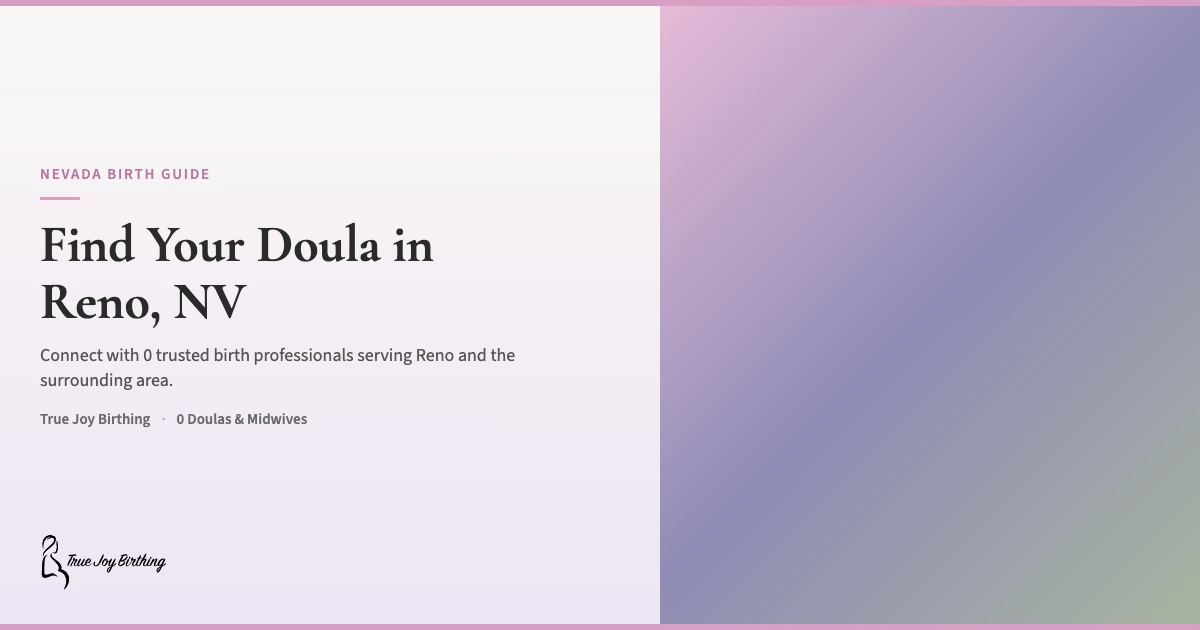
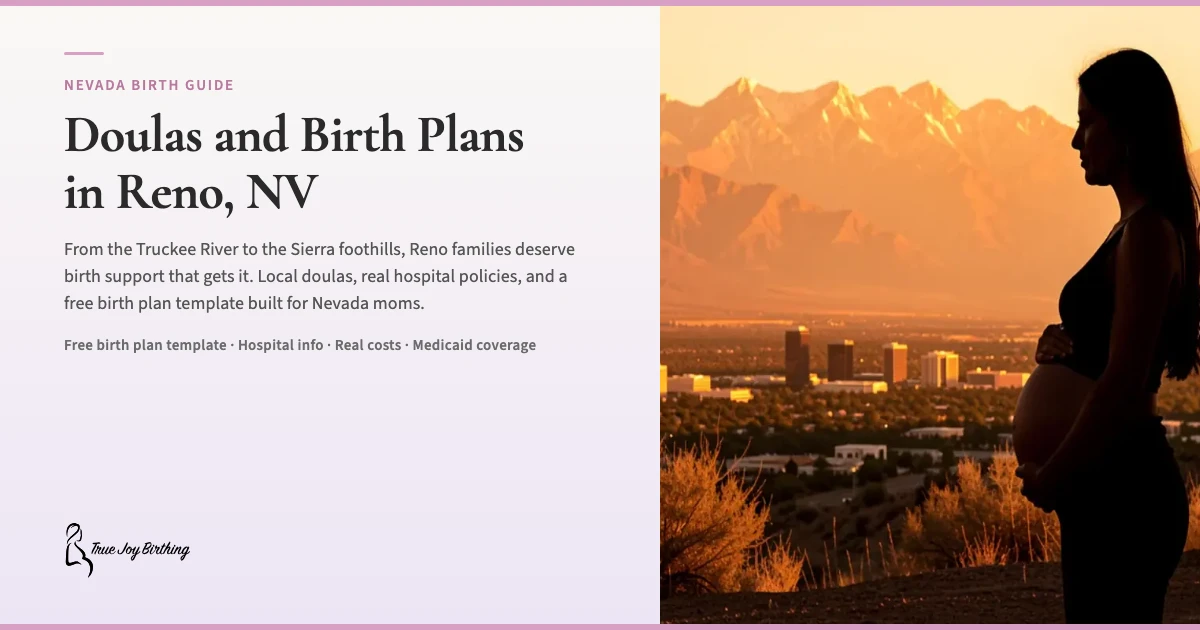
deploy: 2026-07-07 13:28 — feat: rochester-ny video embed + 4 hospitals + 1 birth center [preflight: pass]

diff --git a/src/data/cities.ts b/src/data/cities.ts
@@ -1683,34 +1683,55 @@ export const cities: Record<string, CityData> = {
     costLow: 800,
     costHigh: 1800,
     shelbiServesHere: false,
-    heroImage: "/images/new-york-ny-birth-doula-skyline.webp",
+    heroImage: "/images/providence-ri-birth-doula-hero-pvd-v2.webp",
+    ogImage: "https://truejoybirthing.com/images/og-city-providence-ri-v2.webp" ,
     localDoulas: [
-      { name: "Doula Access Collaborative" , credential: "Birth Doula" , practice: "Doula Access Collaborative" , url: "https://www.providence.org/locations/or/doula-access-collaborative" , photo: "" , description: "Providence contracts with birth doulas to support families with Medicaid insurance. The program aims to advance birth equity for childbearing families.", costRange: "Contact for pricing", acceptingClients: true, services: ["Birth Doula" , "Postpartum Doula"], serviceArea: ["Providence, RI"] },
-      { name: "Bellwether Doulas" , credential: "Birth Doula" , practice: "Bellwether Doulas" , url: "https://www.bellwetherdoulas.com/" , photo: "/images/provider-providence-ri-bellwether-doulas.webp", description: "Doulas supports births at Women and Infants and Landmark Hospitals, plus home births and postpartum care in RI/nearby MA. Live classes are offered virtually. ...", costRange: "Contact for pricing", acceptingClients: true, services: ["Birth Doula" , "Postpartum Doula"], serviceArea: ["Providence, RI"] },
-      { name: "birth doulas in Rhode Island" , credential: "Birth Doula" , practice: "birth doulas in Rhode Island" , url: "https://doulamatch.net/list/birth/ri" , photo: "/images/provider-providence-ri-birth-doulas-in-rhode-island.webp", description: "13 birth doulas in Rhode Island. Doula Birth Fee: $1500 to $2000 Postpartum Rate: $50 to $75 $1700 to $2000 Postpartum Rate: $35 to $50. Birth Fee: $1975 to $ ...", costRange: "Contact for pricing", acceptingClients: true, services: ["Birth Doula" , "Postpartum Doula"], serviceArea: ["Providence, RI"] },
-      { name: "Doula" , credential: "Birth Doula" , practice: "Doula" , url: "https://www.wellnestedri.com/" , photo: "/images/provider-providence-ri-doula.webp", description: "Well Nested RI provides a wide range of professional services, support groups, fitness classes and education from pregnancy to postpartum.", costRange: "Contact for pricing", acceptingClients: true, services: ["Birth Doula" , "Postpartum Doula"], serviceArea: ["Providence, RI"] },
-      { name: "Birth Doulas" , credential: "Birth Doula" , practice: "Birth Doulas" , url: "https://www.doulasri.org/birthdoulas" , photo: "/images/provider-providence-ri-birth-doulas.webp", description: "Birth Doulas · Katherine Wilcox · Elana Ferrera · STefanie GALLO · Susie Finnerty · Akua Carson · Barbie French · Sarah Killeen.", costRange: "Contact for pricing", acceptingClients: true, services: ["Birth Doula" , "Postpartum Doula"], serviceArea: ["Providence, RI"] },
-      { name: "Caring In Color" , credential: "Birth Doula" , practice: "Caring In Color" , url: "https://www.caringincolor.com/" , photo: "/images/provider-providence-ri-caring-in-color.webp", description: "CARING IN COLOR is a Full Spectrum Doula Service and Childbirth Education platform providing affirming, evidence-based and trauma-informed support.", costRange: "Contact for pricing", acceptingClients: true, services: ["Birth Doula" , "Postpartum Doula"], serviceArea: ["Providence, RI"] } ],
-    culture: "Providence has a quietly powerful birth community shaped by its size — doulas, midwives, and lactation consultants here tend to know each other and often know your OB too. The city's Dominican, Cape Verdean, and Portuguese communities have built strong networks of culturally centered birth workers. Rhode Island was ahead of the curve on Medicaid doula coverage, and you'll feel the difference: more moms can actually afford the support they want." ,
-    heroLocalDetail: "At 38 weeks, you're probably figuring out the fastest route from your place on the South Side or Federal Hill to Women & Infants on Dudley Street — thankfully everything in Providence is close. India Point Park along the Providence River gives you flat, waterfront walking when you need to move, and Rogers Williams Park's rose garden is a surprisingly peaceful place for those last-weeks waddles." ,
+      { name: "Bellwether Doulas" , credential: "Birth Doula" , practice: "Bellwether Doulas" , url: "https://www.bellwetherdoulas.com/" , photo: "/images/provider-providence-ri-bellwether-doulas.webp", description: "A team of experienced birth and postpartum doulas serving Rhode Island and nearby Massachusetts. Bellwether supports births at Women & Infants, Landmark, and home births, with virtual Evidence Based Birth classes and lactation support.", costRange: "$1,200-$2,000", acceptingClients: true, services: ["Birth Doula" , "Postpartum Doula" , "Childbirth Education"], 
+    lat: 41.8240,
+    lng: -71.4128,
+    serviceArea: ["Providence, RI" , "RI Statewide" , "Nearby MA"] },
+      { name: "Well Nested RI" , credential: "Certified Perinatal Doula" , practice: "Well Nested RI" , url: "https://www.wellnestedri.com/" , photo: "/images/provider-providence-ri-well-nested-ri.webp", description: "Founded by Janet Iacobucci, a Certified Perinatal Doula, Lactation Counselor, and Newborn Care Specialist. Well Nested RI offers doula services, support groups, fitness classes, and education from pregnancy through postpartum.", costRange: "$25-$45/hr", acceptingClients: true, services: ["Postpartum Doula" , "Lactation Support" , "Newborn Care" , "Support Groups"], 
+    lat: 41.8240,
+    lng: -71.4128,
+    serviceArea: ["Providence, RI" , "RI Statewide"] },
+      { name: "Susie Finnerty" , credential: "CPD, CLC" , practice: "Susie Finnerty Doula" , url: "https://www.susiefinnerty.com/" , photo: "/images/provider-providence-ri-susie-finnerty.webp", description: "Certified Perinatal Doula and Certified Lactation Counselor serving Providence and all of Rhode Island. Susie supports physiologic birth, inductions, cesareans, VBACs, trauma, and loss, and accepts RI Medicaid and private insurance.", costRange: "$1,500-$2,000", acceptingClients: true, acceptsMedicaid: true, services: ["Birth Doula" , "Postpartum Doula" , "Lactation Support"], 
+    lat: 41.8240,
+    lng: -71.4128,
+    serviceArea: ["Providence, RI" , "RI Statewide"] },
+      { name: "Katherine Wilcox" , credential: "Birth Doula" , practice: "Katherine Wilcox" , url: "https://www.katherinegwilcox.com/" , photo: "/images/provider-providence-ri-katherine-wilcox.webp", description: "A broad spectrum birth worker based in Rhode Island, trained through Carriage House Birth. Katherine offers a full birth support package with prenatal visits, 24/7 on-call availability, labor support, and postpartum visits.", costRange: "$1,000-$1,800", acceptingClients: true, services: ["Birth Doula" , "Postpartum Doula"], 
+    lat: 41.8240,
+    lng: -71.4128,
+    serviceArea: ["Providence, RI" , "RI Statewide"] },
+      { name: "Caring In Color" , credential: "Certified Perinatal Doula" , practice: "Caring In Color" , url: "https://www.caringincolor.com/" , photo: "/images/provider-providence-ri-caring-in-color.webp", description: "Full spectrum doula service and childbirth education platform founded by Akua Carson, providing affirming, evidence-based, and trauma-informed support. Especially committed to BIPOC and LGBTQIA2+ families, and accepts RI-based insurance.", costRange: "$1,200-$2,000", acceptingClients: true, acceptsMedicaid: true, services: ["Birth Doula" , "Postpartum Doula" , "Childbirth Education" , "Lactation Support"], 
+    lat: 41.8240,
+    lng: -71.4128,
+    serviceArea: ["Providence, RI" , "RI Statewide"] },
+      { name: "Emerald Ortiz" , credential: "Full Spectrum Doula, COPE" , practice: "Sacred Wombanhood Birth Support" , url: "https://www.sacredwombanhood.com/" , photo: "/images/provider-providence-ri-emerald-ortiz.webp", description: "Full spectrum doula certified as a Community Outreach Perinatal Educator and trained in culturally competent full circle doula care. Emerald provides childbirth education, birth and postpartum support, placenta encapsulation, and pregnancy and infant loss support.", costRange: "$1,000-$1,800", acceptingClients: true, services: ["Birth Doula" , "Postpartum Doula" , "Childbirth Education" , "Placenta Encapsulation"], 
+    lat: 41.8240,
+    lng: -71.4128,
+    serviceArea: ["Providence, RI" , "Pawtucket, RI" , "RI Statewide"] } ],
+    culture: "Providence has a quietly powerful birth community shaped by its size \u2014 doulas, midwives, and lactation consultants here tend to know each other and often know your OB too. The city\u2019s Dominican, Cape Verdean, and Portuguese communities have built strong networks of culturally centered birth workers. Rhode Island was ahead of the curve on Medicaid doula coverage, and you\u2019ll feel the difference: more moms can actually afford the support they want." ,
+    heroLocalDetail: "At 38 weeks, you\u2019re probably figuring out the fastest route from your place on the South Side or Federal Hill to Women & Infants on Dudley Street \u2014 thankfully everything in Providence is close. India Point Park along the Providence River gives you flat, waterfront walking when you need to move, and Rogers Williams Park\u2019s rose garden is a surprisingly peaceful place for those last-weeks waddles." ,
     hospitalDetails: [
-      { name: "Women & Infants Hospital of Rhode Island" , paragraph: "Women & Infants operates a Level III NICU and is the largest obstetrical care facility in Rhode Island, delivering more babies than any other hospital in the state. <a href=\"/birth-plan-template/\">Use our free hospital birth plan template</a> to prepare for your delivery here." },
-      { name: "Roger Williams Medical Center" , paragraph: "Roger Williams provides a Level II NICU and serves families in the Providence area with a smaller, more intimate maternity program. <a href=\"/birth-plan-template/\">Use our free hospital birth plan template</a> to prepare for your delivery here." },
-      { name: "Hasbro Children's Hospital" , paragraph: "Hasbro Children's, part of Rhode Island Hospital, provides Level IV NICU services — the highest level — for the most complex neonatal cases, working in close collaboration with Women & Infants." }
+      { name: "Women & Infants Hospital of Rhode Island" , address: "101 Dudley St, Providence, RI 02905" , thumbnail: "/images/providence-ri-hospital-women-infants-pvd.webp" , nicuLevel: "III" , doulaPolicy: "Doulas welcome \u2014 the Alternative Birthing Center explicitly welcomes doulas as part of your birth team" , midwifeFriendly: true, waterBirth: "Hydrotherapy tubs available in the Alternative Birthing Center; water birth available for low-risk pregnancies" , medicaid: true, lactation: true, privateRooms: true, url: "https://www.womenandinfants.org/services/pregnancy/having-a-baby" , paragraph: "Women & Infants operates a Level III NICU and is the largest obstetrical care facility in Rhode Island, delivering more than 80% of the state\u2019s babies. The hospital features an Alternative Birthing Center for low-risk pregnancies with a home-like setting and Jacuzzi tub, and most labor and birth rooms are private. <a href=\"/birth-plan-template/\">Use our free hospital birth plan template</a> to prepare for your delivery here." },
+      { name: "Roger Williams Medical Center" , address: "825 Chalkstone Ave, Providence, RI 02908" , thumbnail: "/images/providence-ri-hospital-roger-williams-pvd.webp" , nicuLevel: "II" , doulaPolicy: "Doulas welcome as support persons" , midwifeFriendly: false, waterBirth: "Water birth not routinely offered" , medicaid: true, lactation: true, privateRooms: true, url: "https://www.chartercare.org/locations/rwmc/" , paragraph: "Roger Williams provides a Level II NICU and serves families in the Providence area with a smaller, more intimate maternity program. <a href=\"/birth-plan-template/\">Use our free hospital birth plan template</a> to prepare for your delivery here." },
+      { name: "Hasbro Children\u2019s Hospital" , address: "593 Eddy St, Providence, RI 02903" , thumbnail: "/images/providence-ri-hospital-hasbro-childrens-pvd.webp" , nicuLevel: "IV" , doulaPolicy: "Doulas welcome in NICU as support persons, check current visitor policy" , midwifeFriendly: false, waterBirth: "Not applicable \u2014 pediatric/NICU facility" , medicaid: true, lactation: true, privateRooms: true, url: "https://www.lifespan.org/hospitals/hasbro-childrens-hospital" , paragraph: "Hasbro Children\u2019s, part of Rhode Island Hospital, provides Level IV NICU services \u2014 the highest level \u2014 for the most complex neonatal cases, working in close collaboration with Women & Infants." }
     ],
     birthCenterDetails: [
       { name: "No birth centers in Providence" , paragraph: "There are currently no freestanding birth centers in Providence, though Women & Infants Hospital offers midwifery services within the hospital setting. Community advocates are working to expand birth center options in Rhode Island." }
     ],
-    medicaidNote: "Rhode Island Medicaid began covering doula services in July 2023 — one of the earliest New England states to do so. The state reimburses approximately $1,500 for a full doula package covering up to 8 visits. Your doula must be enrolled as a RI Medicaid provider." ,
-    insuranceNote: "Rhode Island private insurers are increasingly offering doula coverage — Blue Cross Blue Shield of Rhode Island and UnitedHealthcare have pilot programs. Ask your insurer directly about 'doula services' coverage. If your doula accepts RI Medicaid, you should have no out-of-pocket cost." ,
+    medicaidNote: "Yes \u2014 Rhode Island Medicaid has covered doula services since July 2023. The state reimburses approximately $1,500 for a full doula package covering up to 8 visits. Your doula must be enrolled as a RI Medicaid provider." ,
+    insuranceNote: "Rhode Island private insurers are increasingly offering doula coverage \u2014 Blue Cross Blue Shield of Rhode Island and UnitedHealthcare have pilot programs. Ask your insurer directly about \u2018doula services\u2019 coverage. If your doula accepts RI Medicaid, you should have no out-of-pocket cost." ,
     faqs: [
-      { q: "How much does a doula cost in Providence?" , a: "In Providence, a birth doula typically charges between $800 and $1,800 for a full package including prenatal visits, labor support, and postpartum care. If you have RI Medicaid, your doula services may be fully covered at no cost to you — Rhode Island was one of the first New England states to offer this." },
-      { q: "Does Rhode Island Medicaid cover doula services?" , a: "Yes! Rhode Island Medicaid has covered doula services since July 2023 — the full package is reimbursed at approximately $1,500. Your doula must be enrolled as a RI Medicaid provider. Contact your health plan or care coordinator to find enrolled doulas." },
-      { q: "What hospitals in Providence have the highest level NICU?" , a: "Hasbro Children's Hospital (part of Rhode Island Hospital) operates a Level IV NICU — the highest level. Women & Infants Hospital has a Level III NICU, and Roger Williams Medical Center has a Level II NICU." },
+      { q: "How much does a doula cost in Providence?" , a: "In Providence, a birth doula typically charges between $800 and $1,800 for a full package including prenatal visits, labor support, and postpartum care. If you have RI Medicaid, your doula services may be fully covered at no cost to you \u2014 Rhode Island was one of the first New England states to offer this." },
+      { q: "Does Rhode Island Medicaid cover doula services?" , a: "Yes! Rhode Island Medicaid has covered doula services since July 2023 \u2014 the full package is reimbursed at approximately $1,500. Your doula must be enrolled as a RI Medicaid provider. Contact your health plan or care coordinator to find enrolled doulas." },
+      { q: "What hospitals in Providence have the highest level NICU?" , a: "Hasbro Children\u2019s Hospital (part of Rhode Island Hospital) operates a Level IV NICU \u2014 the highest level. Women & Infants Hospital has a Level III NICU, and Roger Williams Medical Center has a Level II NICU." },
       { q: "Are there birth centers in Providence?" , a: "There are no freestanding birth centers in Providence right now. Women & Infants Hospital does have midwives and a more home-like birth suite option within the hospital. Community advocates are pushing for birth center options, so this could change." },
-      { q: "Can I bring my doula to hospitals in Providence?" , a: "Yes — Providence hospitals, including Women & Infants, generally welcome doulas as part of your birth team. Call the hospital's maternity unit before your due date to confirm their current visitor and support person policies." },
-      { q: "What postpartum resources are available in Providence?" , a: "Providence has solid postpartum support: RI Medicaid covers postpartum care up to 12 months, the Rhode Island Department of Health's Home Visiting Program provides in-home support, WIC offices on Broad Street and in Olneyville offer nutrition and breastfeeding help, and community-based groups through organizations like the SISTA Project and Progreso Latino are available." }
+      { q: "Can I bring my doula to hospitals in Providence?" , a: "Yes \u2014 Providence hospitals, including Women & Infants, generally welcome doulas as part of your birth team. Call the hospital\u2019s maternity unit before your due date to confirm their current visitor and support person policies." },
+      { q: "What postpartum resources are available in Providence?" , a: "Providence has solid postpartum support: RI Medicaid covers postpartum care up to 12 months, the Rhode Island Department of Health\u2019s Home Visiting Program provides in-home support, WIC offices on Broad Street and in Olneyville offer nutrition and breastfeeding help, and community-based groups through organizations like the SISTA Project and Progreso Latino are available." }
     ],
+    
+    midwifeInfo: "RI licensed midwives provide home birth services. The RI Department of Health licenses certified professional midwives (CPMs). Midwifery care typically costs $5,000-$8,000 for home birth.",
     nearbyCities: ["boston-ma" , "hartford-ct" , "new-york-ny"]},
   "san-francisco-ca": {
     enableBlogResources: true,
@@ -2245,32 +2266,39 @@ export const cities: Record<string, CityData> = {
     state: "NV" ,
     slug: "reno-nv" ,
     costLow: 800,
-    costHigh: 2000,
+    costHigh: 2500,
     shelbiServesHere: false,
-    heroImage: "/images/new-york-ny-birth-doula-skyline.webp",
+    heroImage: "/images/reno-nv-birth-doula-hero-rva.webp" ,
+    ogImage: "/images/og-city-reno-nv.webp" ,
+    lat: 39.5296 , lng: -119.8138 ,
+    supportSceneImage: "/images/reno-nv-birth-doula-support-rnv2.webp" ,
     localDoulas: [
-      { name: "DOULA CO" , credential: "Birth Doula" , practice: "DOULA CO" , url: "https://www.doulacoop.org/" , photo: "/images/provider-reno-nv-doula-co.webp", description: "Doulas are trained in everything from the physiological and emotional processes of labor, childbirth & the postpartum period to fertility, loss & miscarriage.", costRange: "Contact for pricing", acceptingClients: true, services: ["Birth Doula" , "Postpartum Doula"], serviceArea: ["Reno, NV"] },
-      { name: "Welcome To Doula In Reno" , credential: "Birth Doula" , practice: "Welcome To Doula In Reno" , url: "https://doulainreno.com/" , photo: "/images/provider-reno-nv-welcome-to-doula-in-reno.webp", description: "Doula in Reno helping you navigate pregnancy, positive birth experiences, miscarriage and infant loss, adoption, surrogacy, and your breastfeeding journey.", costRange: "Contact for pricing", acceptingClients: true, services: ["Birth Doula" , "Postpartum Doula"], serviceArea: ["Reno, NV"] },
-      { name: "Ashley Maas Birth Services" , credential: "Birth Doula" , practice: "Ashley Maas Birth Services" , url: "https://renodoula.com/" , photo: "/images/provider-reno-nv-ashley-maas-birth-services.webp", description: "A doula who is versed in the signs of labor, can normalize what you're experiencing, is knowledgeable about obstetrical language and options.", costRange: "Contact for pricing", acceptingClients: true, services: ["Birth Doula" , "Postpartum Doula"], serviceArea: ["Reno, NV"] } ],
+      { name: "Jessica Hebert" , credential: "Birth Doula" , practice: "DOULA CO-OP of Nevada" , url: "https://www.doulacoop.org/northern-nevada-doulas" , photo: "/images/providers/reno-nv-jessica-hebert.webp" , description: "Birth doula and co-op leader with the DOULA CO-OP of Nevada, serving Reno, Sparks, and Tahoe families. The co-op partners with Molina Healthcare to offer free birth doula services to Medicaid enrollees and with Renown Medical Center for hospital-credentialed volunteer doulas. Jessica connects families with the right doula from the co-op's 20+ member team." , costRange: "$800-$2,000" , acceptingClients: true, services: ["Birth Doula" , "Postpartum Doula"], serviceArea: ["Reno, NV" , "Sparks, NV"] },
+      { name: "Samantha DeAndrea" , credential: "Birth Doula" , practice: "DCNV" , url: "https://www.doulacoop.org/northern-nevada-doulas" , photo: "/images/providers/reno-nv-samantha.webp" , description: "Birth and postpartum doula with the DOULA CO-OP of Nevada, serving Reno and the greater Truckee Meadows. Provides evidence-based labor support, postpartum care, and breastfeeding guidance with a community-centered approach." , costRange: "$800-$1,500 (via co-op referral)" , acceptingClients: true, services: ["Birth Doula" , "Postpartum Doula"], serviceArea: ["Reno, NV"] },
+      { name: "Ashley Maas" , credential: "Birth Doula" , practice: "Ashley Maas Birth Services" , url: "https://renodoula.com/" , photo: "/images/providers/reno-nv-ashley-maas.webp" , description: "Birth doula, childbirth educator, and placenta encapsulation specialist serving Reno and Tahoe families. Winner of Best Doula in Reno News and Review. Offers 1-2 prenatal meetings, unlimited phone and email support, 24/7 on-call from 37 weeks, labor and delivery support, and a postpartum visit." , costRange: "$2,500" , acceptingClients: true, services: ["Birth Doula" , "Postpartum Doula" , "Childbirth Education"], serviceArea: ["Reno, NV" , "Tahoe, NV"] },
+      { name: "Carly Parks" , credential: "Birth Doula" , practice: "Sweet Pea Doula Co." , url: "https://sweetpeadoulaco.com/" , photo: "/images/providers/reno-nv-carly-parks.webp" , description: "Birth and postpartum doula serving Reno, Tahoe, and parts of Northern California. Member of the DOULA CO-OP of Nevada with a calm, personalized approach to labor support and postpartum care." , costRange: "$1,200-$2,000" , acceptingClients: true, services: ["Birth Doula" , "Postpartum Doula"], serviceArea: ["Reno, NV" , "Tahoe, NV"] },
+      { name: "Morgan Powell" , credential: "Birth Doula" , practice: "Nurtured Birth" , url: "https://www.doulacoop.org/renonorthern-nevada-doulas/morgan-powell" , photo: "/images/providers/reno-nv-morgan-powell.webp" , description: "Certified Medicaid doula provider based in Sparks, serving Reno and the greater Truckee Meadows. Offers birth doula support with a focus on evidence-based care and community-centered birth equity." , costRange: "$800-$1,500" , acceptingClients: true, services: ["Birth Doula" , "Postpartum Doula"], serviceArea: ["Sparks, NV" , "Reno, NV"] } ],
     culture: "Reno is northern Nevada\u2019s healthcare hub, drawing families from across the Truckee Meadows and Sierra foothills. The birth community is small but tight-knit \u2014 a mix of hospital-based and home-birth midwives, doulas who serve both Reno and Sparks, and military families from the region\u2019s installations. Expect a pragmatic, Western-independence vibe where asking for help isn\u2019t weakness \u2014 it\u2019s how you show up prepared." ,
     heroLocalDetail: "Reno\u2019s two birthing hospitals \u2014 Renown Regional Medical Center near downtown at 1155 Mill Street and Sierra Medical Center in south Reno at 6500 Longley Lane \u2014 are roughly 20 minutes apart via I-580. Both hospitals have verified Level III NICUs (verified on renown.org and northernnevadahealth.com), so high-acuity newborns don\u2019t need to transfer to Las Vegas or Sacramento. I-580 and I-80 form the Spaghetti Bowl interchange downtown, which backs up during morning and evening rush; if you\u2019re coming from Spanish Springs or Cold Springs, South Virginia Street to Renown is usually faster than battling I-80. Summers break 95\u00B0F regularly and winter Sierra snowstorms can slow the hospital drive \u2014 know your route before 38 weeks. The Truckee River Walk and Idlewild Park loop are popular third-trimester strolls close to Renown." ,
     hospitalDetails: [
-      { name: "Renown Regional Medical Center" , paragraph: "Renown Regional Medical Center, in central Reno at 1155 Mill Street, is the largest hospital in northern Nevada and home to Renown Children\u2019s Hospital with a verified Level III NICU \u2014 the region\u2019s first and only Level III NICU. High-volume L&D with 24/7 neonatology, maternal-fetal medicine, and obstetric anesthesiology. Doulas are generally welcome, though visitor policies shift, so confirm during your hospital tour. If you\u2019re delivering at Renown, having your birth plan in hand makes check-in smoother \u2014 they see a lot of families and move fast. <a href=\"/birth-plan-template/\">Use our free hospital birth plan template</a> to get started." },
-      { name: "Sierra Medical Center" , paragraph: "Sierra Medical Center, in south Reno at 6500 Longley Lane, is the newer addition to the Northern Nevada Health System. It has a Level III NICU (verified on northernnevadahealth.com) and a dedicated Family Birth Center with LDRP suites. Sierra consolidated the maternity services that were previously at the Sparks campus, so all L&D now happens here. The south Reno location is convenient for families in the Damonte Ranch, Galena, and south Truckee Meadows areas \u2014 about 10 minutes from I-580 and the South Meadows Parkway interchange. <a href=\"/birth-plan-template/\">Download the free birth plan template</a> before your tour." } ],
+      { name: "Renown Regional Medical Center" , thumbnail: "/images/hospitals/reno-nv-renown-regional.webp" , address: "1155 Mill Street, Reno, NV 89502" , nicuLevel: "Level III NICU" , doulaPolicy: "Doulas welcome in L&D" , medicaid: "Yes" , paragraph: "Renown Regional Medical Center, in central Reno at 1155 Mill Street, is the largest hospital in northern Nevada and home to Renown Children\u2019s Hospital with a verified Level III NICU \u2014 the region\u2019s first and only Level III NICU. High-volume L&D with 24/7 neonatology, maternal-fetal medicine, and obstetric anesthesiology. The DOULA CO-OP of Nevada partners with Renown to credential volunteer doulas with hospital badges, making doulas who\u2019ve completed the Doula Access Program deeply integrated into the birth team. Confirm visitor policies during your hospital tour since they shift seasonally. <a href=\"/birth-plan-template/\">Use our free hospital birth plan template</a> to get started." },
+      { name: "Sierra Medical Center" , thumbnail: "/images/hospitals/reno-nv-sierra-medical.webp" , address: "6500 Longley Lane, Reno, NV 89511" , nicuLevel: "Level III NICU" , doulaPolicy: "Doulas welcome in L&D" , medicaid: "Yes" , paragraph: "Sierra Medical Center, in south Reno at 6500 Longley Lane, is the newer addition to the Northern Nevada Health System. It has a Level III NICU (verified on northernnevadahealth.com) and a dedicated Family Birth Center with LDRP suites. Sierra consolidated the maternity services that were previously at the Sparks campus, so all L&D now happens here. The south Reno location is convenient for families in the Damonte Ranch, Galena, and south Truckee Meadows areas \u2014 about 10 minutes from I-580 and the South Meadows Parkway interchange. <a href=\"/birth-plan-template/\">Download the free birth plan template</a> before your tour." },
+      { name: "Carson Tahoe Regional Medical Center" , thumbnail: "/images/hospitals/reno-nv-carson-tahoe.webp" , address: "1500 Medical Parkway, Carson City, NV 89703" , nicuLevel: "Special Care Nursery (Level II)" , doulaPolicy: "Doulas welcome in L&D" , medicaid: "Yes" , paragraph: "Carson Tahoe Regional Medical Center, about 30 miles south of Reno in Carson City, is Nevada\u2019s first and only Baby-Friendly designated hospital (awarded by WHO and UNICEF). The Women\u2019s and Children\u2019s Center includes private LDRP suites with soaking tubs and Sierra Nevada foothill views, an OB Emergency Department, and nurses certified in the S.T.A.B.L.E. program for neonatal stabilization. Recognized by March of Dimes for below-national-average C-section and elective induction rates. Families from Carson City, Douglas County, and south Washoe Valley deliver here \u2014 about 35 minutes from downtown Reno via US-395. <a href=\"/birth-plan-template/\">Use our free hospital birth plan template</a> to prepare." },
+      { name: "Barton Memorial Hospital" , thumbnail: "/images/hospitals/reno-nv-barton-memorial.webp" , address: "2170 South Avenue, South Lake Tahoe, CA 96150" , nicuLevel: "Special Care Nursery (partnered with UC Davis)" , doulaPolicy: "Doulas welcome in L&D" , medicaid: "Yes" , paragraph: "Barton Memorial Hospital, in South Lake Tahoe about 45 minutes southwest of Reno via US-50, is a Baby-Friendly designated birthing center recognized as a top hospital for expectant mothers for ten consecutive years. The Family Birthing Center offers private suites with rocking chairs and fold-out family beds, VBAC support, and 24-hour birthing care. Barton partners with UC Davis Children\u2019s Hospital for neonatologist and neonatal specialist access. Also designated Birthing-Friendly by CMS and on the Cal Hospital Compare Maternity Honor Roll for low C-section rates. <a href=\"/birth-plan-template/\">Download the free birth plan template</a> before your visit." } ],
     // Birth center search: NPI registry taxonomy 261QB0400X returned zero results for
     // Reno, Sparks, and Washoe County. Google Maps search "birth center Reno NV" found
     // no freestanding birth centers. Verified 2026-05-27. Families seeking out-of-hospital
     // birth work with licensed home-birth midwives; closest freestanding birth centers
     // are in the Sacramento, CA area (~130 miles west).
     birthCenterDetails: [],
-    medicaidNote: "Nevada Medicaid does NOT cover doula services as of 2026. HSA and FSA funds can be used for doula fees, and some doulas in the Reno area offer sliding-scale pricing. Community-based programs through the Washoe County Health District\u2019s Maternal & Child Health division and local birth equity collectives may offer reduced-cost or volunteer doula support \u2014 ask individual doulas what\u2019s available." ,
+    medicaidNote: "No \u2014 Nevada Medicaid does NOT cover doula services as of 2026. HSA and FSA funds can be used for doula fees, and some doulas in the Reno area offer sliding-scale pricing. The DOULA CO-OP of Nevada partners with Molina Healthcare to provide free birth doula services to Medicaid enrollees, and community-based programs through the Washoe County Health District\u2019s Maternal and Child Health division may offer reduced-cost or volunteer doula support \u2014 ask individual doulas what\u2019s available." ,
     insuranceNote: "Whether doula services are partially covered varies by plan in the Reno area. Check whether your plan covers out-of-network doula services, and whether HSA or FSA funds can help cover out-of-pocket costs. Contact your provider directly to confirm." ,
     faqs: [
-      { q: "Does Medicaid cover doulas in Reno?" , a: "Not yet \u2014 Nevada Medicaid does not currently cover doula services. But you still have options: HSA and FSA funds can cover doula fees, some local doulas offer sliding-scale rates, and community collectives may provide reduced-cost support. It\u2019s worth asking any doula you interview about payment flexibility." },
-      { q: "How much does a doula cost in Reno?" , a: "Expect to pay $800 to $2,000 for a birth doula in Reno. That typically covers prenatal visits, labor support, and a postpartum check-in. The range depends on experience level and what\u2019s included. <a href=\"/birth-plan-template/\">Start with the free birth plan template</a> to figure out what matters most to you before you interview doulas." },
-      { q: "Does True Joy Birthing work with Reno families?" , a: "Yes \u2014 and it\u2019s free. True Joy Birthing\u2019s birth plan app, checklist, and guided walkthrough work for any Reno birth setting, whether you\u2019re delivering at Renown, Sierra, or at home. The app also helps you find and connect with local doulas and midwives. <a href=\"/birth-plan-template/\">Download the free birth plan template</a> and start preparing your way." },
-      { q: "Are there doulas in Reno?" , a: "Reno has a small but growing doula community. If local availability is tight, virtual support and the free birth plan app can help you prepare. You can also use the True Joy Birthing app to find local doulas \u2014 start there and interview a few until one clicks." },
-      { q: "Can my doula come to the hospital with me in Reno?" , a: "Yes \u2014 both Renown Regional Medical Center and Sierra Medical Center allow doulas in L&D. Policies can change, especially during flu season or COVID surges, so confirm with your hospital during your tour. Having your birth plan ready helps your care team know your preferences from the moment you walk in." } ],
+      { q: "Does Medicaid cover doulas in Reno?" , a: "Not yet \u2014 Nevada Medicaid does not currently cover doula services. But you still have options: the DOULA CO-OP of Nevada partners with Molina Healthcare to provide free birth doula services to Medicaid enrollees. HSA and FSA funds can cover doula fees, and some local doulas offer sliding-scale rates. It\u2019s worth asking any doula you interview about payment flexibility." },
+      { q: "How much does a doula cost in Reno?" , a: "Expect to pay $800 to $2,500 for a birth doula in Reno. The range depends on experience level and what\u2019s included. Ashley Maas Birth Services charges $2,500 for a full birth package, while co-op doulas range from $800 to $2,000. <a href=\"/birth-plan-template/\">Start with the free birth plan template</a> to figure out what matters most to you before you interview doulas." },
+      { q: "Does True Joy Birthing work with Reno families?" , a: "Yes \u2014 and it\u2019s free. True Joy Birthing\u2019s birth plan app, checklist, and guided walkthrough work for any Reno birth setting, whether you\u2019re delivering at Renown, Sierra, Carson Tahoe, or at home. The app also helps you find and connect with local doulas and midwives. <a href=\"/birth-plan-template/\">Download the free birth plan template</a> and start preparing your way." },
+      { q: "Are there doulas in Reno?" , a: "Reno has a growing doula community anchored by the DOULA CO-OP of Nevada, which lists 20+ birth and postpartum doulas serving the greater Truckee Meadows. The co-op\u2019s partnership with Renown Medical Center means some doulas are hospital-credentialed with volunteer badge access. Start with the True Joy Birthing app to find local doulas, and interview a few until one clicks." },
+      { q: "Can my doula come to the hospital with me in Reno?" , a: "Yes \u2014 Renown Regional Medical Center, Sierra Medical Center, Carson Tahoe, and Barton Memorial all allow doulas in L&D. Policies can change, especially during flu season or COVID surges, so confirm with your hospital during your tour. Having your birth plan ready helps your care team know your preferences from the moment you walk in." } ],
     nearbyCities: ["las-vegas-nv"]},
   "tucson-az": {
     enableBlogResources: true,

diff --git a/scripts/og-city-reno-nv-render.html b/scripts/og-city-reno-nv-render.html
@@ -1,0 +1,202 @@
+<!DOCTYPE html>
+<html>
+<head>
+<meta charset="utf-8">
+<link rel="preconnect" href="https://fonts.googleapis.com">
+<link rel="preconnect" href="https://fonts.gstatic.com" crossorigin>
+<link href="https://fonts.googleapis.com/css2?family=Cormorant+Garamond:wght@600;700&family=Source+Sans+3:wght@400;600;700&display=swap" rel="stylesheet">
+<style>
+  * { margin: 0; padding: 0; box-sizing: border-box; }
+  html, body {
+    width: 1200px;
+    height: 630px;
+    background: #FAF8F5;
+    overflow: hidden;
+  }
+  .og-card {
+    display: flex;
+    flex-direction: row;
+    width: 1200px;
+    height: 630px;
+  }
+  /* LEFT: Text content on cream gradient */
+  .left-column {
+    width: 660px;
+    display: flex;
+    flex-direction: column;
+    justify-content: center;
+    padding: 52px 64px;
+    background: linear-gradient(180deg, #FAF8F5 0%, #EDE5F5 100%);
+    position: relative;
+  }
+  /* Rose accent bar at top */
+  .left-column::before {
+    content: '';
+    position: absolute;
+    top: 0;
+    left: 0;
+    right: 0;
+    height: 6px;
+    background: #D8A0C4;
+  }
+  /* Rose accent bar at bottom */
+  .left-column::after {
+    content: '';
+    position: absolute;
+    bottom: 0;
+    left: 0;
+    right: 0;
+    height: 6px;
+    background: #D8A0C4;
+  }
+  /* RIGHT: Hero image */
+  .right-column {
+    width: 540px;
+    position: relative;
+    overflow: hidden;
+  }
+  .right-column img {
+    width: 100%;
+    height: 100%;
+    object-fit: cover;
+    object-position: center;
+  }
+  /* Rose accent bars on image side */
+  .right-column::before {
+    content: '';
+    position: absolute;
+    top: 0;
+    left: 0;
+    right: 0;
+    height: 6px;
+    background: #D8A0C4;
+    z-index: 2;
+  }
+  .right-column::after {
+    content: '';
+    position: absolute;
+    bottom: 0;
+    left: 0;
+    right: 0;
+    height: 6px;
+    background: #D8A0C4;
+    z-index: 2;
+  }
+  .accent-line {
+    width: 40px;
+    height: 3px;
+    background: #D8A0C4;
+    border-radius: 2px;
+    margin-bottom: 20px;
+  }
+  .eyebrow {
+    font-family: 'Source Sans 3', system-ui, sans-serif;
+    font-weight: 600;
+    font-size: 15px;
+    color: #B87AA0;
+    text-transform: uppercase;
+    letter-spacing: 0.12em;
+    margin-bottom: 10px;
+  }
+  .headline {
+    font-family: 'Cormorant Garamond', Georgia, serif;
+    font-weight: 700;
+    font-size: 52px;
+    color: #2A2A2A;
+    letter-spacing: -0.01em;
+    line-height: 1.1;
+    margin-bottom: 16px;
+  }
+  .summary {
+    font-family: 'Source Sans 3', system-ui, sans-serif;
+    font-weight: 400;
+    font-size: 18px;
+    color: #555555;
+    letter-spacing: 0.005em;
+    line-height: 1.5;
+    margin-bottom: 18px;
+    max-width: 520px;
+  }
+  .subhead {
+    font-family: 'Source Sans 3', system-ui, sans-serif;
+    font-weight: 600;
+    font-size: 15px;
+    color: #6A6B6C;
+    letter-spacing: 0.02em;
+  }
+  .subhead span {
+    margin: 0 8px;
+    color: #D8A0C4;
+  }
+  /* Logo — mono SVG for contrast on cream backgrounds, minimum 56px height */
+  .logo-area {
+    margin-top: auto;
+    padding-top: 20px;
+    display: flex;
+    align-items: center;
+  }
+  .logo-area img {
+    height: 56px;
+    width: auto;
+  }
+</style>
+</head>
+<!--
+  CANONICAL Pattern B OG Template for TJB Location/City Pages
+  ============================================================
+  
+  REPLACE THESE PLACEHOLDERS before rendering:
+  
+  NEVADA BIRTH GUIDE     → e.g. "DENVER BIRTH SUPPORT" (uppercase, city name + "BIRTH SUPPORT")
+  Doulas and Birth Plans<br>in Reno, NV    → e.g. "Doulas & Birth Plans<br>in Denver, CO" (Cormorant Garamond, max 2 lines)
+  From the Truckee River to the Sierra foothills, Reno families deserve birth support that gets it. Local doulas, real hospital policies, and a free birth plan template built for Nevada moms.     → City-specific 1-2 sentence pitch. Reference local landmarks/geography.
+                     e.g. "From the Front Range to the Platte, Denver families deserve birth support
+                     that gets it. Local doulas, real hospital policies, and a free birth plan
+                     template built for Colorado moms."
+  Free birth plan template &middot; Hospital info &middot; Real costs &middot; Medicaid coverage     → e.g. "Free birth plan template · Hospital info · Real costs · Medicaid coverage"
+                     (Use · separator between items)
+  file://localhost/Users/socializerender/Projects/truejoybirthing-website/public/images/reno-nv-birth-doula-hero.webp  → Production URL of city hero image, or gradient fallback.
+                     Denver: https://truejoybirthing.com/images/denver-hero-front-range.webp
+                     Other cities without hero: Use branded gradient div instead (see below)
+  https://truejoybirthing.com/images/logo-mono.svg    → https://truejoybirthing.com/images/logo-mono.svg
+                     (ALWAYS use mono — the color logo washes out on cream backgrounds)
+  
+  FOR CITIES WITHOUT A HERO IMAGE:
+  Replace the <div class="right-column"><img .../></div> with:
+  <div class="right-column" style="background: linear-gradient(135deg, #E6BBD8 0%, #8E8CB5 50%, #A8B5A0 100%);"></div>
+  This is the same gradient as Pattern A cards — a safe branded fallback.
+  
+  RENDERING:
+  Use Playwright with viewport 1200×630, deviceScaleFactor=1. See og-creation-workflow.md.
+  
+  DESIGN RULES:
+  - Logo MUST be logo-mono.svg (black line art). The color logo.svg uses pastel fills 
+    that are invisible on cream backgrounds.
+  - Logo MUST be ≥56px height. The old 14px wordmark was invisible at thumbnail scale.
+  - Summary text is city-specific — NOT generic. Reference local geography/landmarks.
+  - Photo goes on the RIGHT (540px). Text stack on the LEFT (660px).
+  - Rose bars (6px #D8A0C4) at top/bottom of BOTH columns.
+  - PNG format for output (LinkedIn/X don't reliably render WebP).
+  
+  VERSION HISTORY:
+  - v1: Gradient right panel, 14px text-only wordmark, no summary, no photo
+  - v2 (June 2026): Photo right column, 56px mono logo, city-specific summary, eyebrow
+-->
+<body>
+<div class="og-card">
+  <div class="left-column">
+    <div class="accent-line"></div>
+    <div class="eyebrow">NEVADA BIRTH GUIDE</div>
+    <div class="headline">Doulas and Birth Plans<br>in Reno, NV</div>
+    <div class="summary">From the Truckee River to the Sierra foothills, Reno families deserve birth support that gets it. Local doulas, real hospital policies, and a free birth plan template built for Nevada moms.</div>
+    <div class="subhead">Free birth plan template &middot; Hospital info &middot; Real costs &middot; Medicaid coverage</div>
+    <div class="logo-area">
+      <img src="https://truejoybirthing.com/images/logo-mono.svg" alt="True Joy Birthing" />
+    </div>
+  </div>
+  <div class="right-column">
+    <img src="file://localhost/Users/socializerender/Projects/truejoybirthing-website/public/images/reno-nv-birth-doula-hero.webp" alt="Reno, NV" />
+  </div>
+</div>
+</body>
+</html>

diff --git a/src/data/video-embeds.ts b/src/data/video-embeds.ts
@@ -389,4 +389,11 @@ export const cityVideoEmbeds: Record<string, CityVideoEmbed> = {
     duration: "PT4M12S",
     uploadDate: "2026-07-07T00:00:00-04:00",
 },
+  "reno-nv": {
+    videoId: "8LH05xoCH-c",
+    title: "Reno NV Doula & Birth Plan Guide: Costs, Hospitals & Medicaid (First-Time Mom)",
+    description: "Watch the full city guide — doulas, hospitals, costs, and more, all in under 5 minutes.",
+    duration: "PT5M20S",
+    uploadDate: "2026-07-07T00:00:00-04:00",
+},
 };
